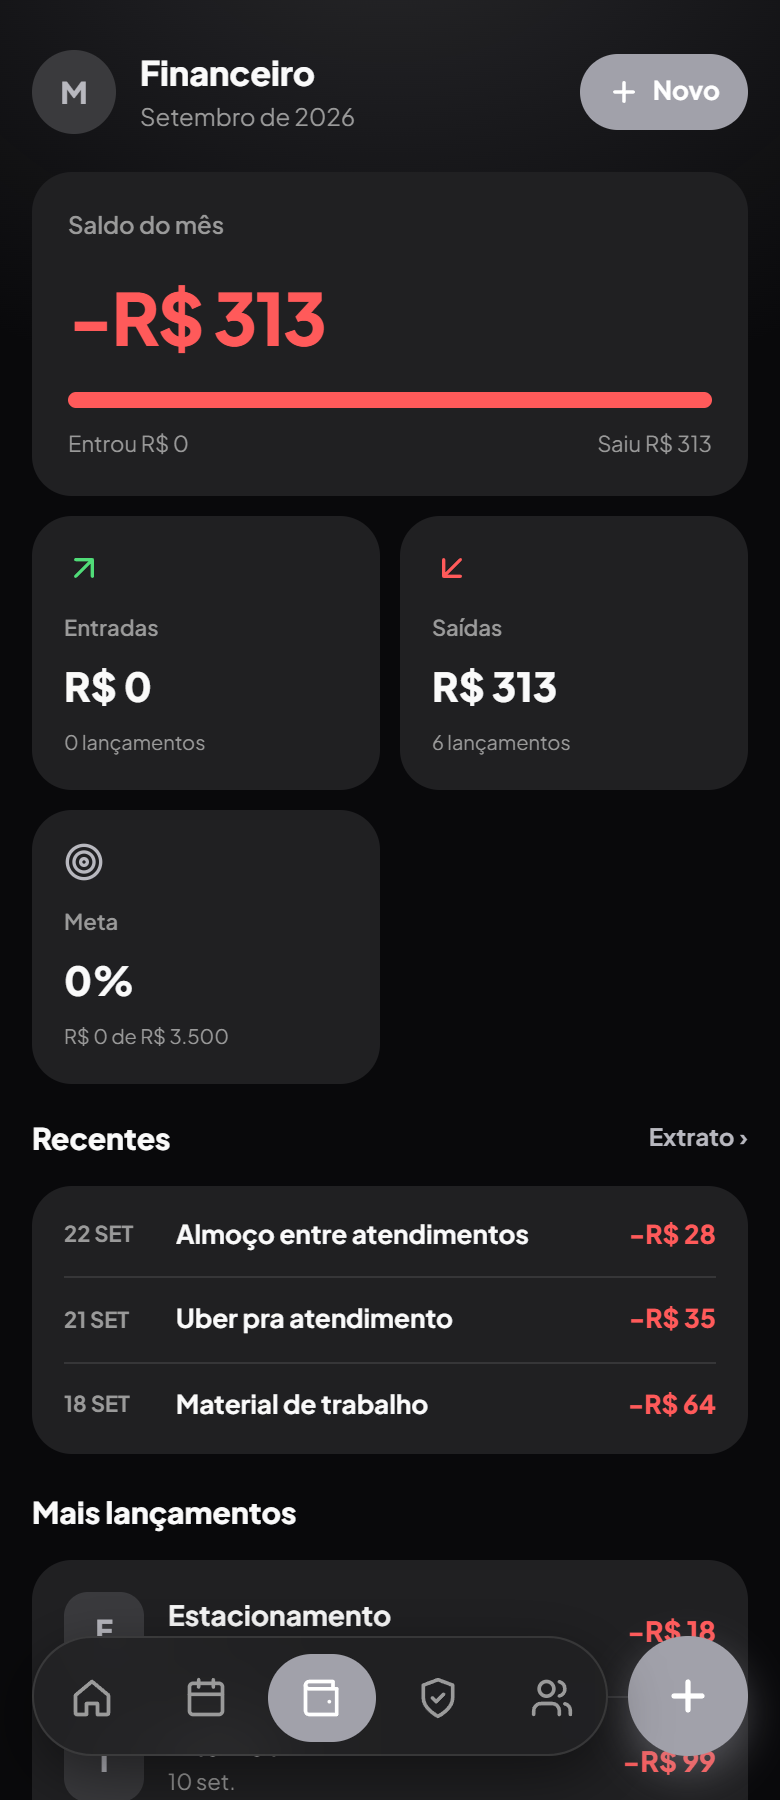
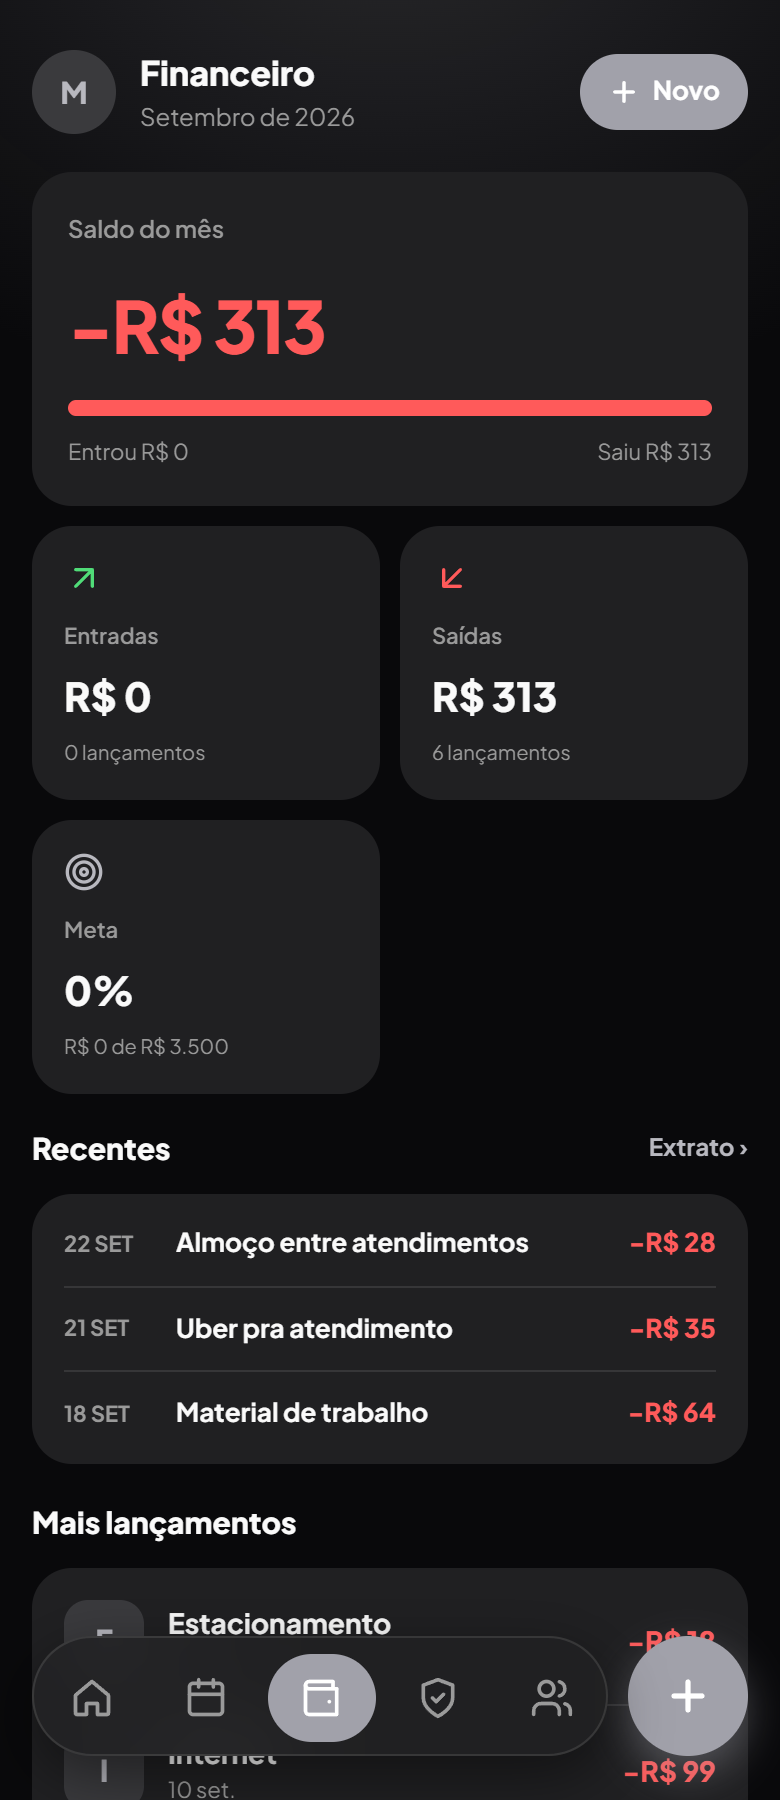
fix(financeiro): chip de variação reserva a linha; trilha no mesmo y
Revisão do claude-3 na #223: o chip "+5% vs setembro" só existe com
variação (prevSaldo !== 0). No mês zerado ele saía do DOM, a linha do
título encolhia e o valor e a trilha subiam 4,5px (y 110 em vez de 114,5).

Agora o chip fica sempre na linha. Sem variação ele é invisível
(visibility: hidden, aria-hidden) e sem número, só um espaço não
separável: a regra de honestidade (#136) continua, nenhum "0%" inventado.

Testes:
- saldo-barra-lab mede também o y da trilha no card: 114,5px nos 4
  estados, em 390 e 430, claro e escuro (64/64). Com o chip sumindo de
  novo, acusa y 110 nos casos sem variação;
- fiação: chip sempre no DOM, invisível e sem número sem variação
  (mutação 4/4); o J04 casa o texto com sinal no ramo com variação;
- prints de docs/jornada/prints/saldo-barra/ refeitos.

diff --git a/components/financeiro/FinanceiroHeroCard.tsx b/components/financeiro/FinanceiroHeroCard.tsx
@@ -159,23 +159,30 @@ export function FinanceiroHeroCard({
           >
             Saldo do mês
           </span>
-          {variacaoPct !== null && (
-            <span
-              style={{
-                fontSize: "11px",
-                fontWeight: 700,
-                padding: "3px 9px",
-                borderRadius: "999px",
-                background: sobe ? "var(--t-gsoft)" : "var(--t-rsoft)",
-                color: sobe ? "var(--t-green)" : "var(--t-red)",
-              }}
-            >
-              {/* Um nó de texto só, como no mockup: o navegador espaça a
-                  junção de dois nós de forma diferente (ordem do operador:
-                  pixel idêntico). */}
-              {`${sobe ? "+" : ""}${Math.round(variacaoPct)}% vs ${mesAnterior}`}
-            </span>
-          )}
+          {/* Sem variação (mês anterior zerado) o chip fica invisível e sem
+              número (regra de honestidade, #136), mas continua ocupando a
+              linha: sem ele a linha do título encolhe e o valor e a barra
+              sobem 4,5px. */}
+          <span
+            data-saldo-chip={variacaoPct !== null ? "visivel" : "reservado"}
+            aria-hidden={variacaoPct === null || undefined}
+            style={{
+              fontSize: "11px",
+              fontWeight: 700,
+              padding: "3px 9px",
+              borderRadius: "999px",
+              background: sobe ? "var(--t-gsoft)" : "var(--t-rsoft)",
+              color: sobe ? "var(--t-green)" : "var(--t-red)",
+              visibility: variacaoPct !== null ? undefined : "hidden",
+            }}
+          >
+            {/* Um nó de texto só, como no mockup: o navegador espaça a
+                junção de dois nós de forma diferente (ordem do operador:
+                pixel idêntico). */}
+            {variacaoPct !== null
+              ? `${sobe ? "+" : ""}${Math.round(variacaoPct)}% vs ${mesAnterior}`
+              : "\u00a0"}
+          </span>
         </div>
 
         <span

diff --git a/tests/wiring/financeiro-visual.test.ts b/tests/wiring/financeiro-visual.test.ts
@@ -221,8 +221,21 @@ describe("Honesty rule (issue #136) — variação % only with a real, non-zero 
     expect(src).toMatch(/prevSaldo !== 0[\s\S]{0,100}: null/);
   });
 
-  it("the badge only renders when variacaoPct is not null (real, computable value)", () => {
-    expect(src).toContain("{variacaoPct !== null && (");
+  it("the badge only SHOWS a number when variacaoPct is not null; otherwise it is an invisible, number-free placeholder that keeps the row height", () => {
+    const chip = src.slice(src.indexOf("data-saldo-chip"));
+    expect(chip).toMatch(
+      /^data-saldo-chip=\{variacaoPct !== null \? "visivel" : "reservado"\}/
+    );
+    expect(chip).toMatch(/aria-hidden=\{variacaoPct === null \|\| undefined\}/);
+    expect(chip).toMatch(
+      /visibility: variacaoPct !== null \? undefined : "hidden",/
+    );
+    // O texto reservado é um espaço não separável: nenhum "0%" inventado.
+    expect(chip).toMatch(
+      /\{variacaoPct !== null\s*\? `\$\{sobe \? "\+" : ""\}\$\{Math\.round\(variacaoPct\)\}% vs \$\{mesAnterior\}`\s*: "\\u00a0"\}/
+    );
+    // O chip não some mais do DOM (sumir encolhia a linha e subia a barra).
+    expect(src).not.toContain("{variacaoPct !== null && (");
   });
 });
 

diff --git a/tests/wiring/financeiro-visual-jornada.test.ts b/tests/wiring/financeiro-visual-jornada.test.ts
@@ -131,7 +131,9 @@ describe("J04 — entrada x saída nunca só pela cor", () => {
       read("components/financeiro/FinanceiroHeroCard.tsx")
     );
     expect(src).toMatch(
-      /\{`\$\{sobe \? "\+" : ""\}\$\{Math\.round\(variacaoPct\)\}% vs \$\{mesAnterior\}`\}/
+      // O chip agora fica sempre na linha (invisível sem variação, para a
+      // barra não subir); o texto com sinal é o ramo com variação.
+      /\{variacaoPct !== null\s*\? `\$\{sobe \? "\+" : ""\}\$\{Math\.round\(variacaoPct\)\}% vs \$\{mesAnterior\}`/
     );
     expect(src).toContain(
       "const sobe = variacaoPct !== null && variacaoPct >= 0;"
